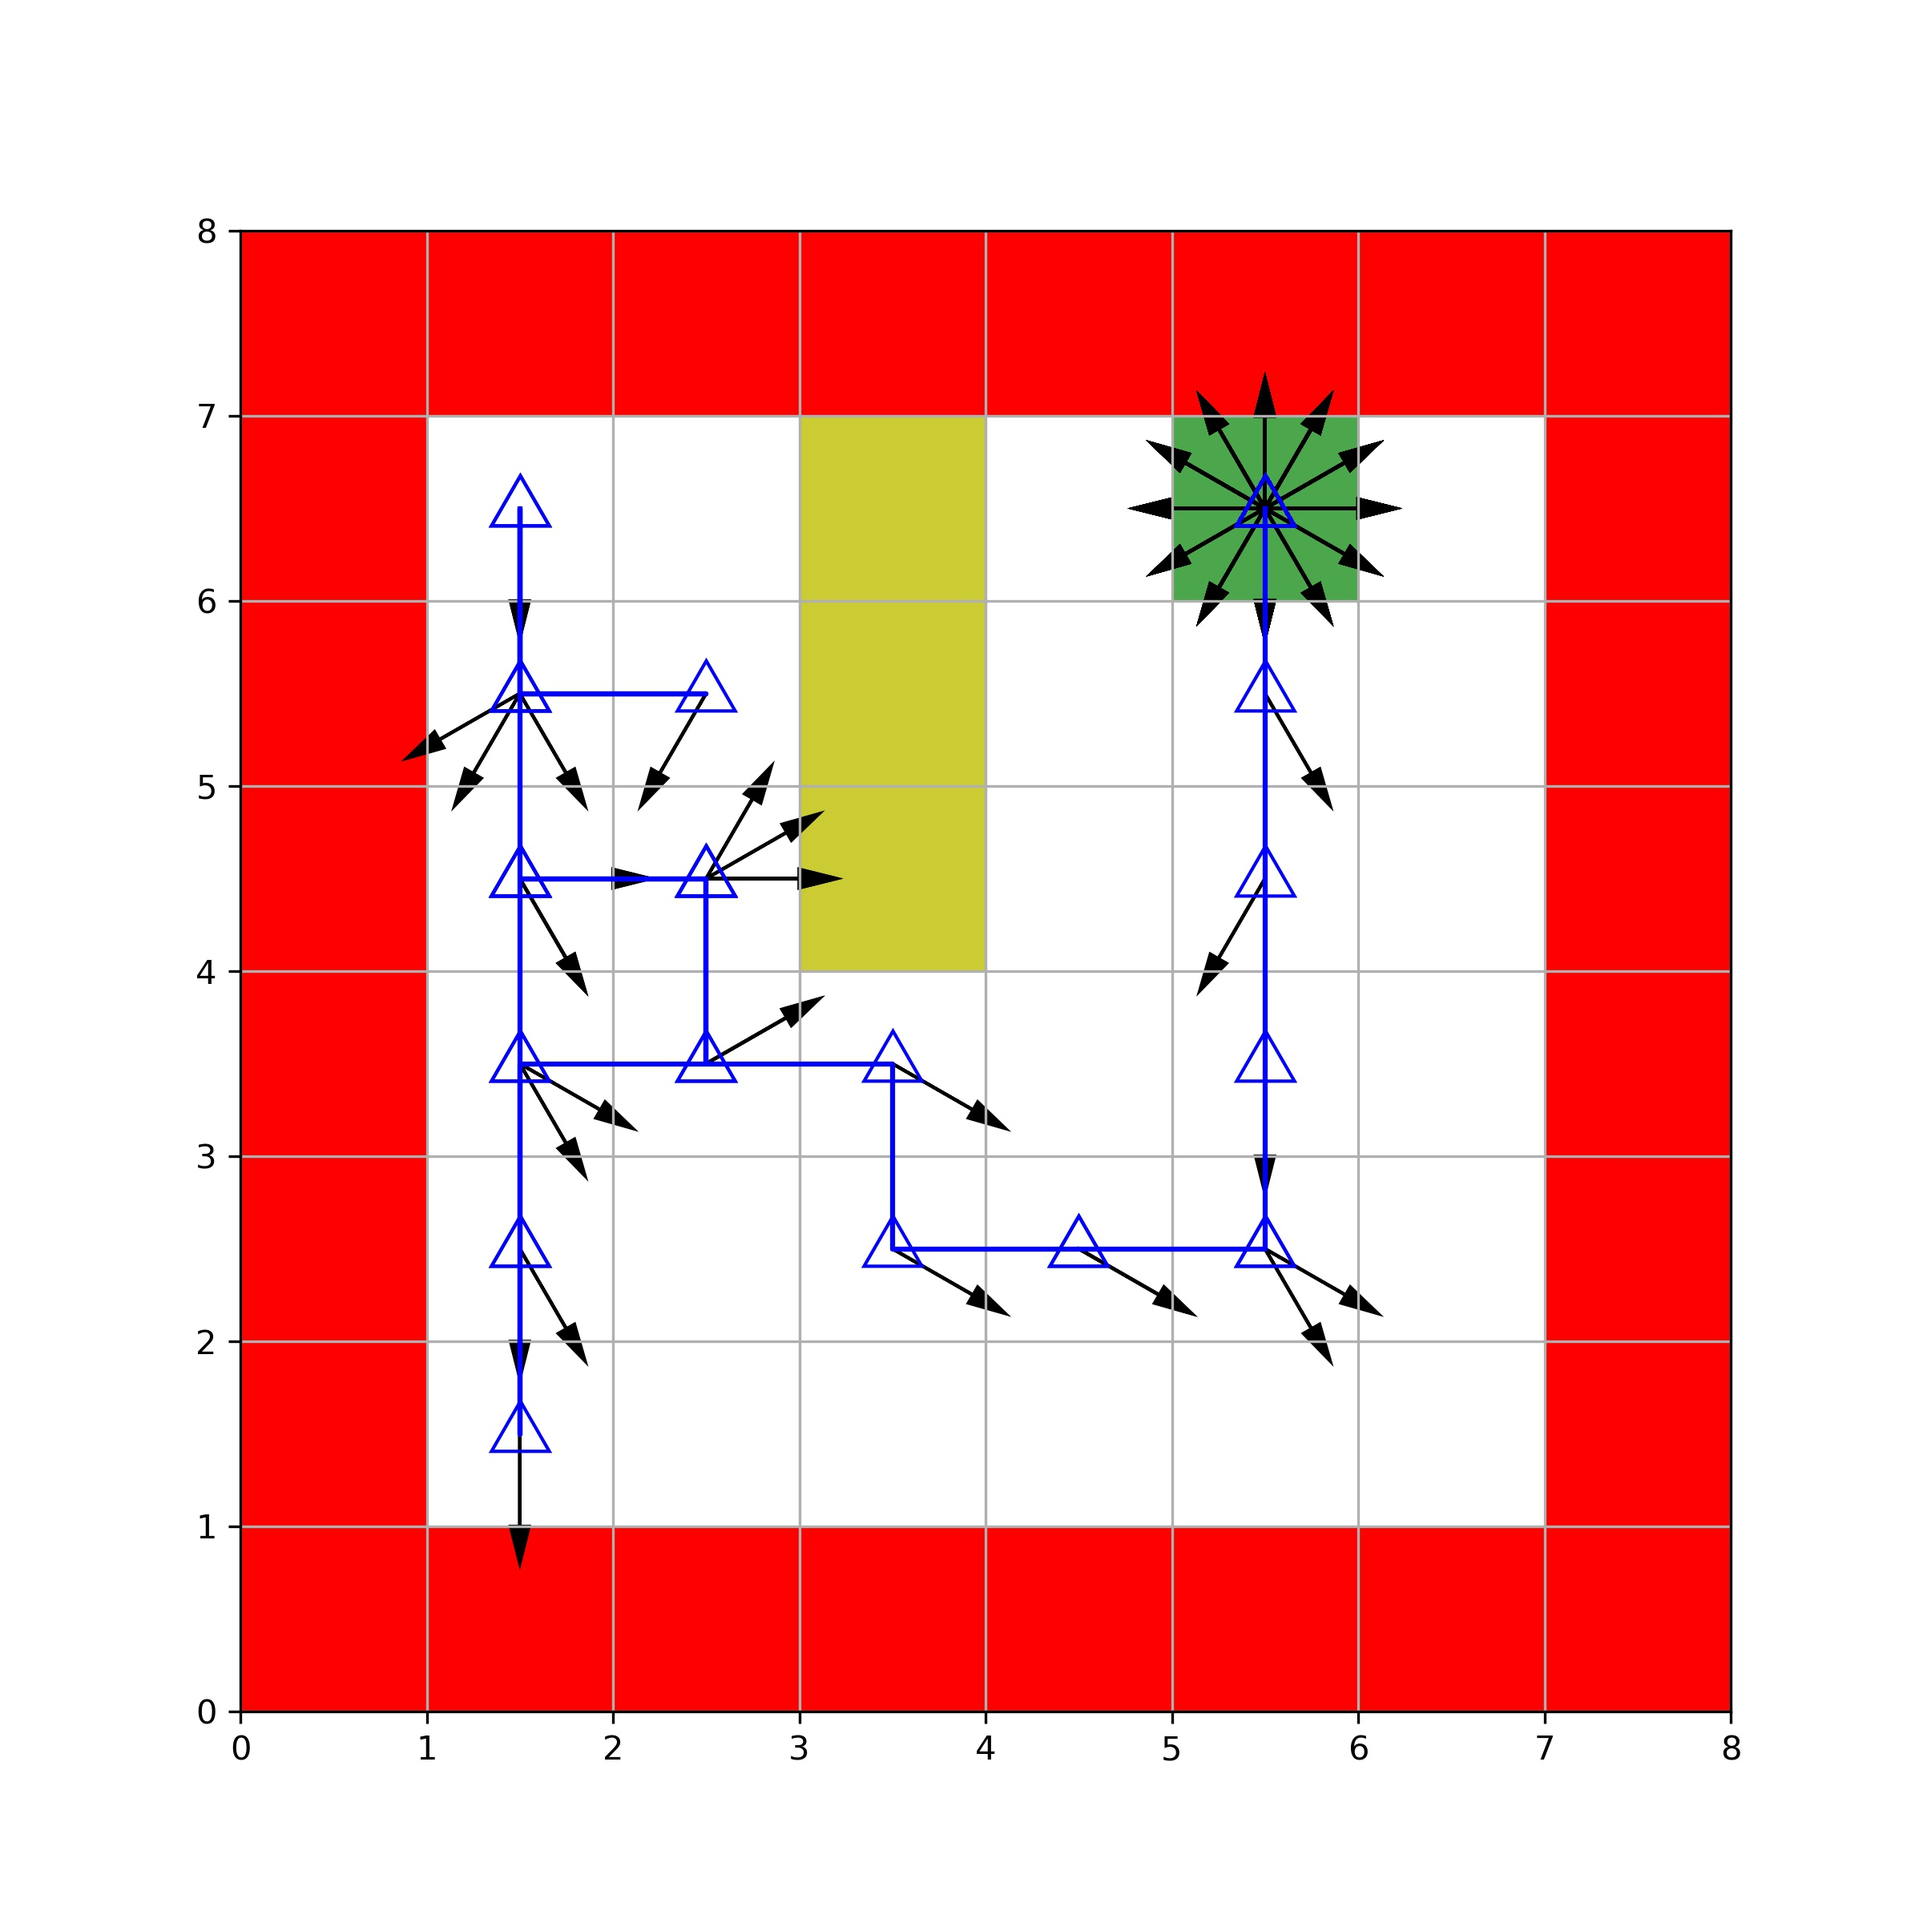
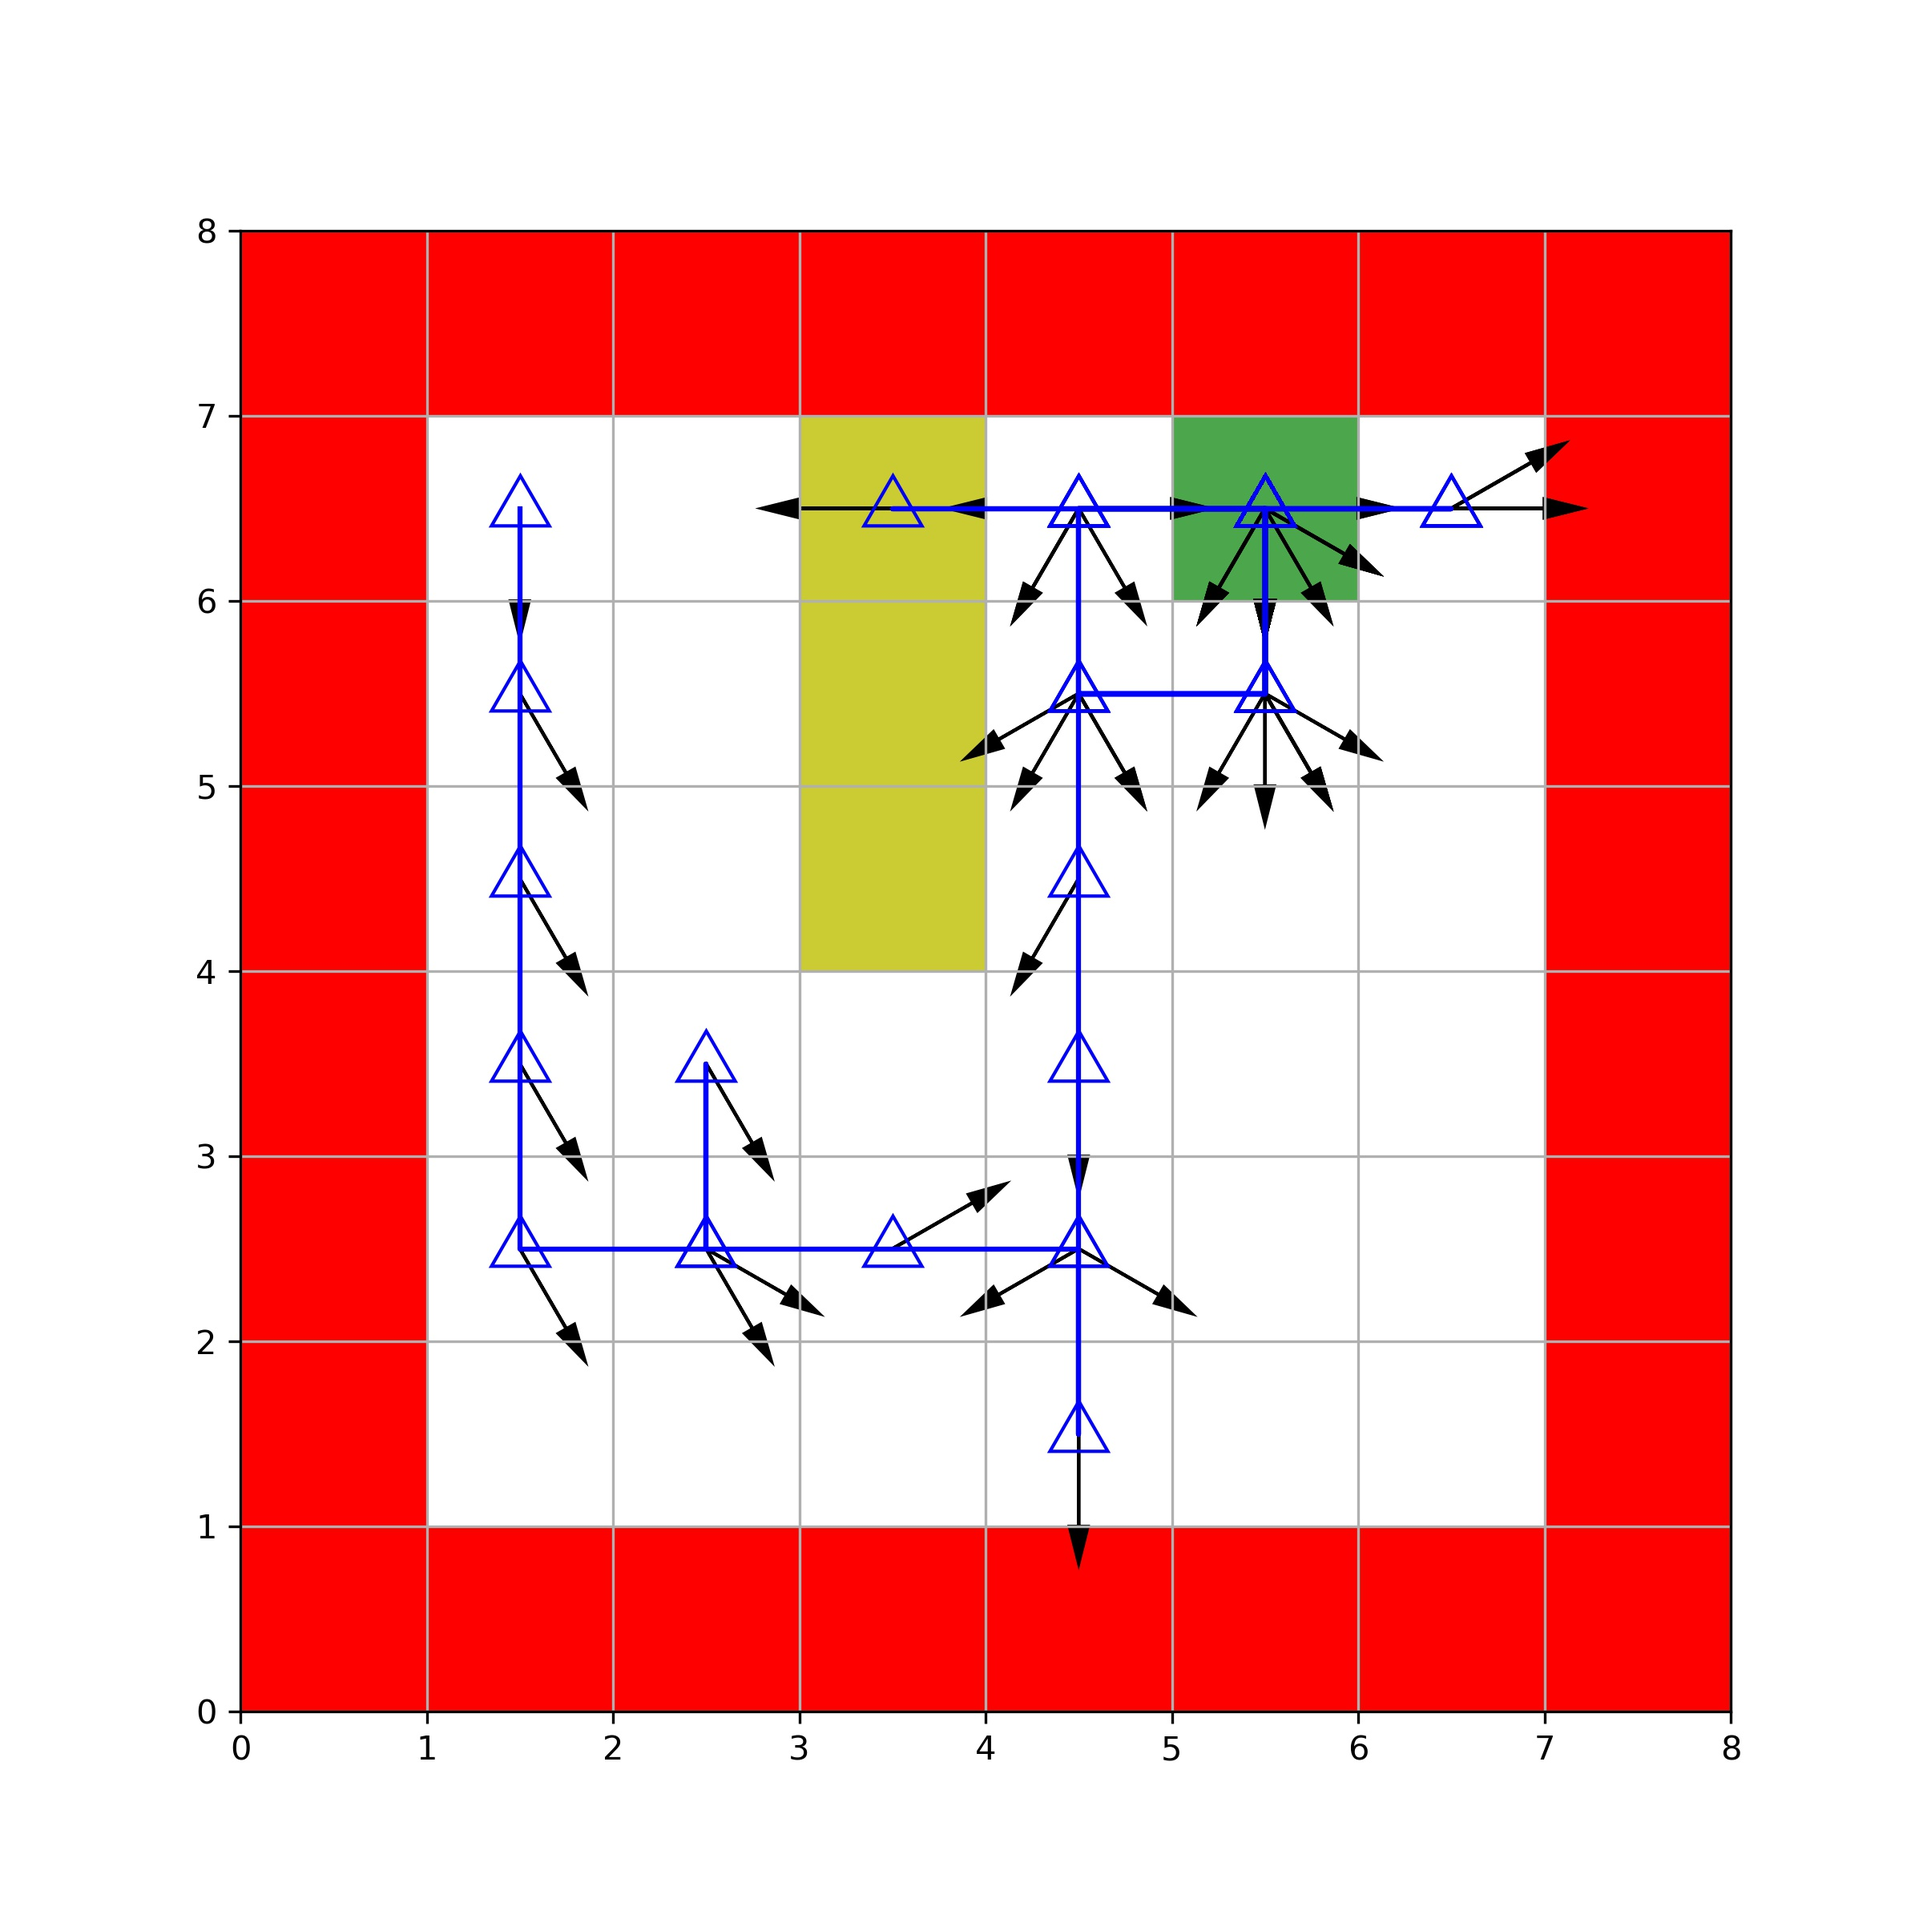
fixed P_function bug

diff --git a/main.py b/main.py
@@ -6,8 +6,8 @@ import random
 from random import choice
 import timeit
 
-np.random.seed(305353660)
-random.seed(305353660)
+np.random.seed(11061997)
+random.seed(11061997)
 
 def get_states():
     S = []
@@ -34,15 +34,15 @@ def P_function(s, a, s_):
     if a == (0,0):
         # If no movement occurs, the current state must equal the next state
         if s == s_:
-            prob = 1.0
+            return 1.0
         else:
-            prob = 0.0
+            return 0.0
 
     # Errors may happen if movement occurs
     # else:
         # New initial states with pre-rotation error
-    s_left = (s[0], s[1], s[2]-1) 
-    s_right = (s[0], s[1], s[2]+1)
+    s_left = (s[0], s[1], (s[2]+12-1)%12) 
+    s_right = (s[0], s[1], (s[2]+1)%12)
 
     # Compute all possible next states
     s_next = next_state_no_error(s, a)
@@ -185,7 +185,7 @@ def next_state_draw(s, a):
     return next_states[si_]
 
 
-def trajectory(s_0, policy):
+def trajectory(s_0, policy, debug=False):
     
     # plotting trajectory given starting state s_0 and policy 
         
@@ -218,8 +218,11 @@ def trajectory(s_0, policy):
         #     break
 
         next_state = next_state_draw(state, action)
+        if debug:
+            print(state, action, next_state, mdp.R_function(state, action, next_state))
         rewards.append(mdp.R_function(state, action, next_state))
         state = next_state
+
 
     
     # if (maxTime == timeStep):
@@ -313,18 +316,18 @@ def initial_policy():
     return pi_0
 
 
-def check_validity():
+# def check_validity():
 
-    for s in states:
-        for a in actions:
+#     for s in states:
+#         for a in actions:
 
-            psum = 0
-            for s_ in states:
-                psum += P_function(s,a,s_)
+#             psum = 0
+#             for s_ in states:
+#                 psum += P_function(s,a,s_)
 
-            if np.abs(psum-1.0)>1e-6:
-                print("Not valid at:", s)
-                exit(0)
+#             if np.abs(psum-1.0)>1e-6:
+#                 print("Not valid at:", s)
+#                 exit(0)
 
 
 # def path_generation(policy, s0, L, W):
@@ -424,7 +427,7 @@ if __name__ == "__main__":
     # check_validity()
 
     # 1c
-    print("(Q 1b)")
+    print("(Q 1c)")
     print("Some P entries:-")
     for i in range(5):
         s = choice(states)
@@ -596,7 +599,7 @@ if __name__ == "__main__":
         print("s =", s, ": pi*[s] =", pi_star_PI_5a[s], ", V*[s] =", V_star_PI_5a[s])
 
     print()
-    opt_cum_reward_PI_5a = trajectory((1,6,6), pi_star_PI_5a)
+    opt_cum_reward_PI_5a = trajectory((1,6,6), pi_star_PI_5a, debug=True)
     print("Cumulative reward for the trajectory just shown:", opt_cum_reward_PI_5a)
     print()
 
